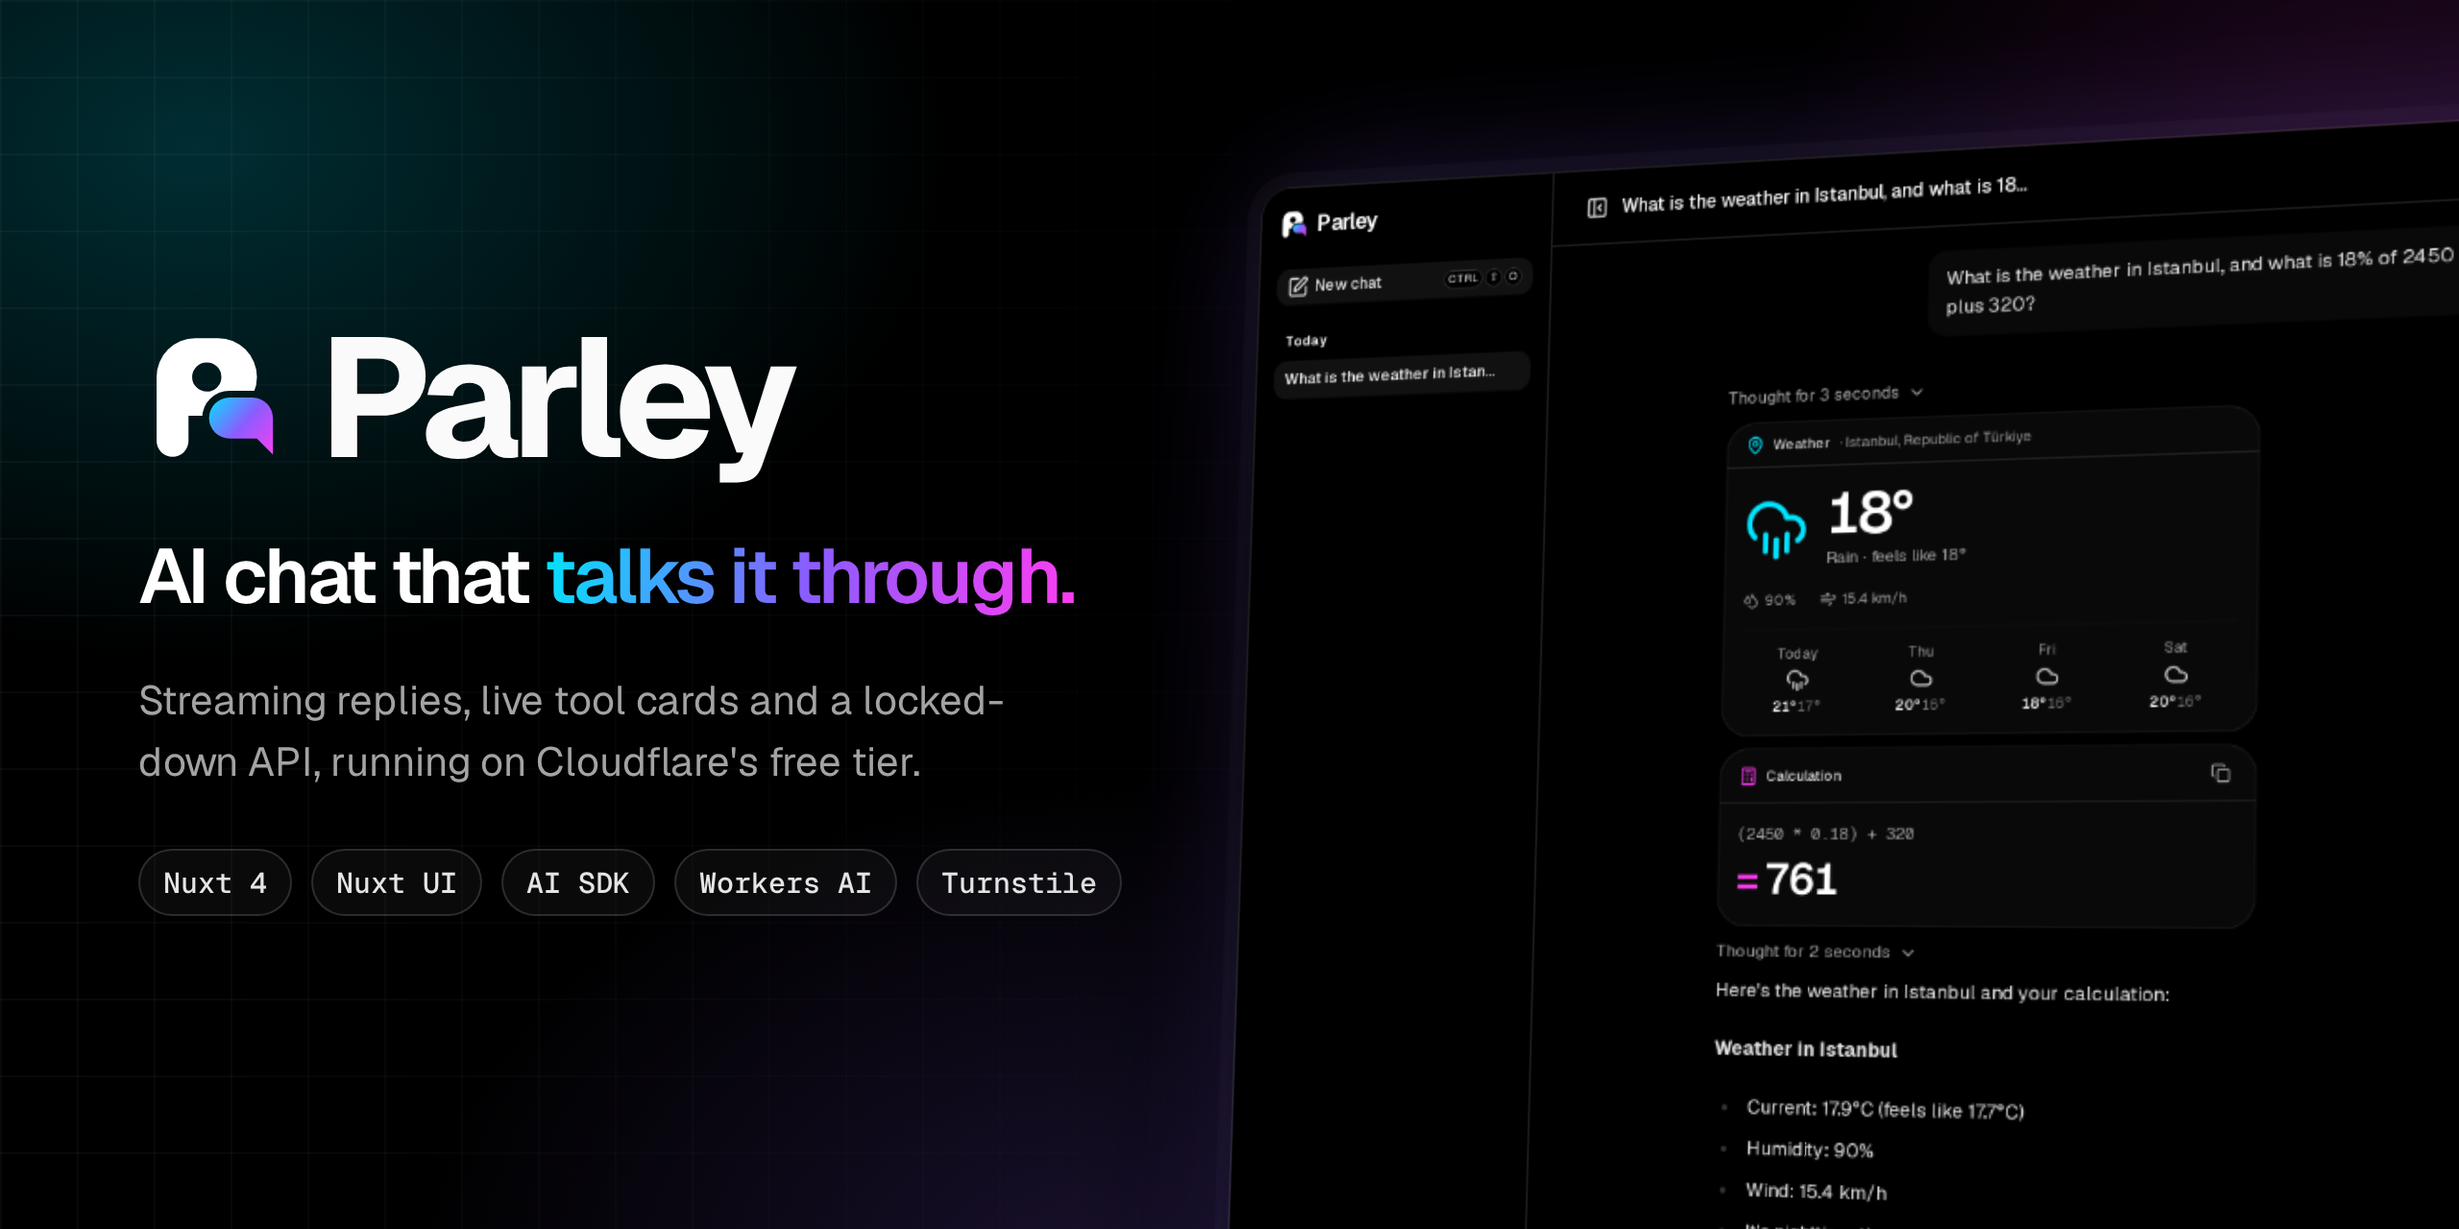
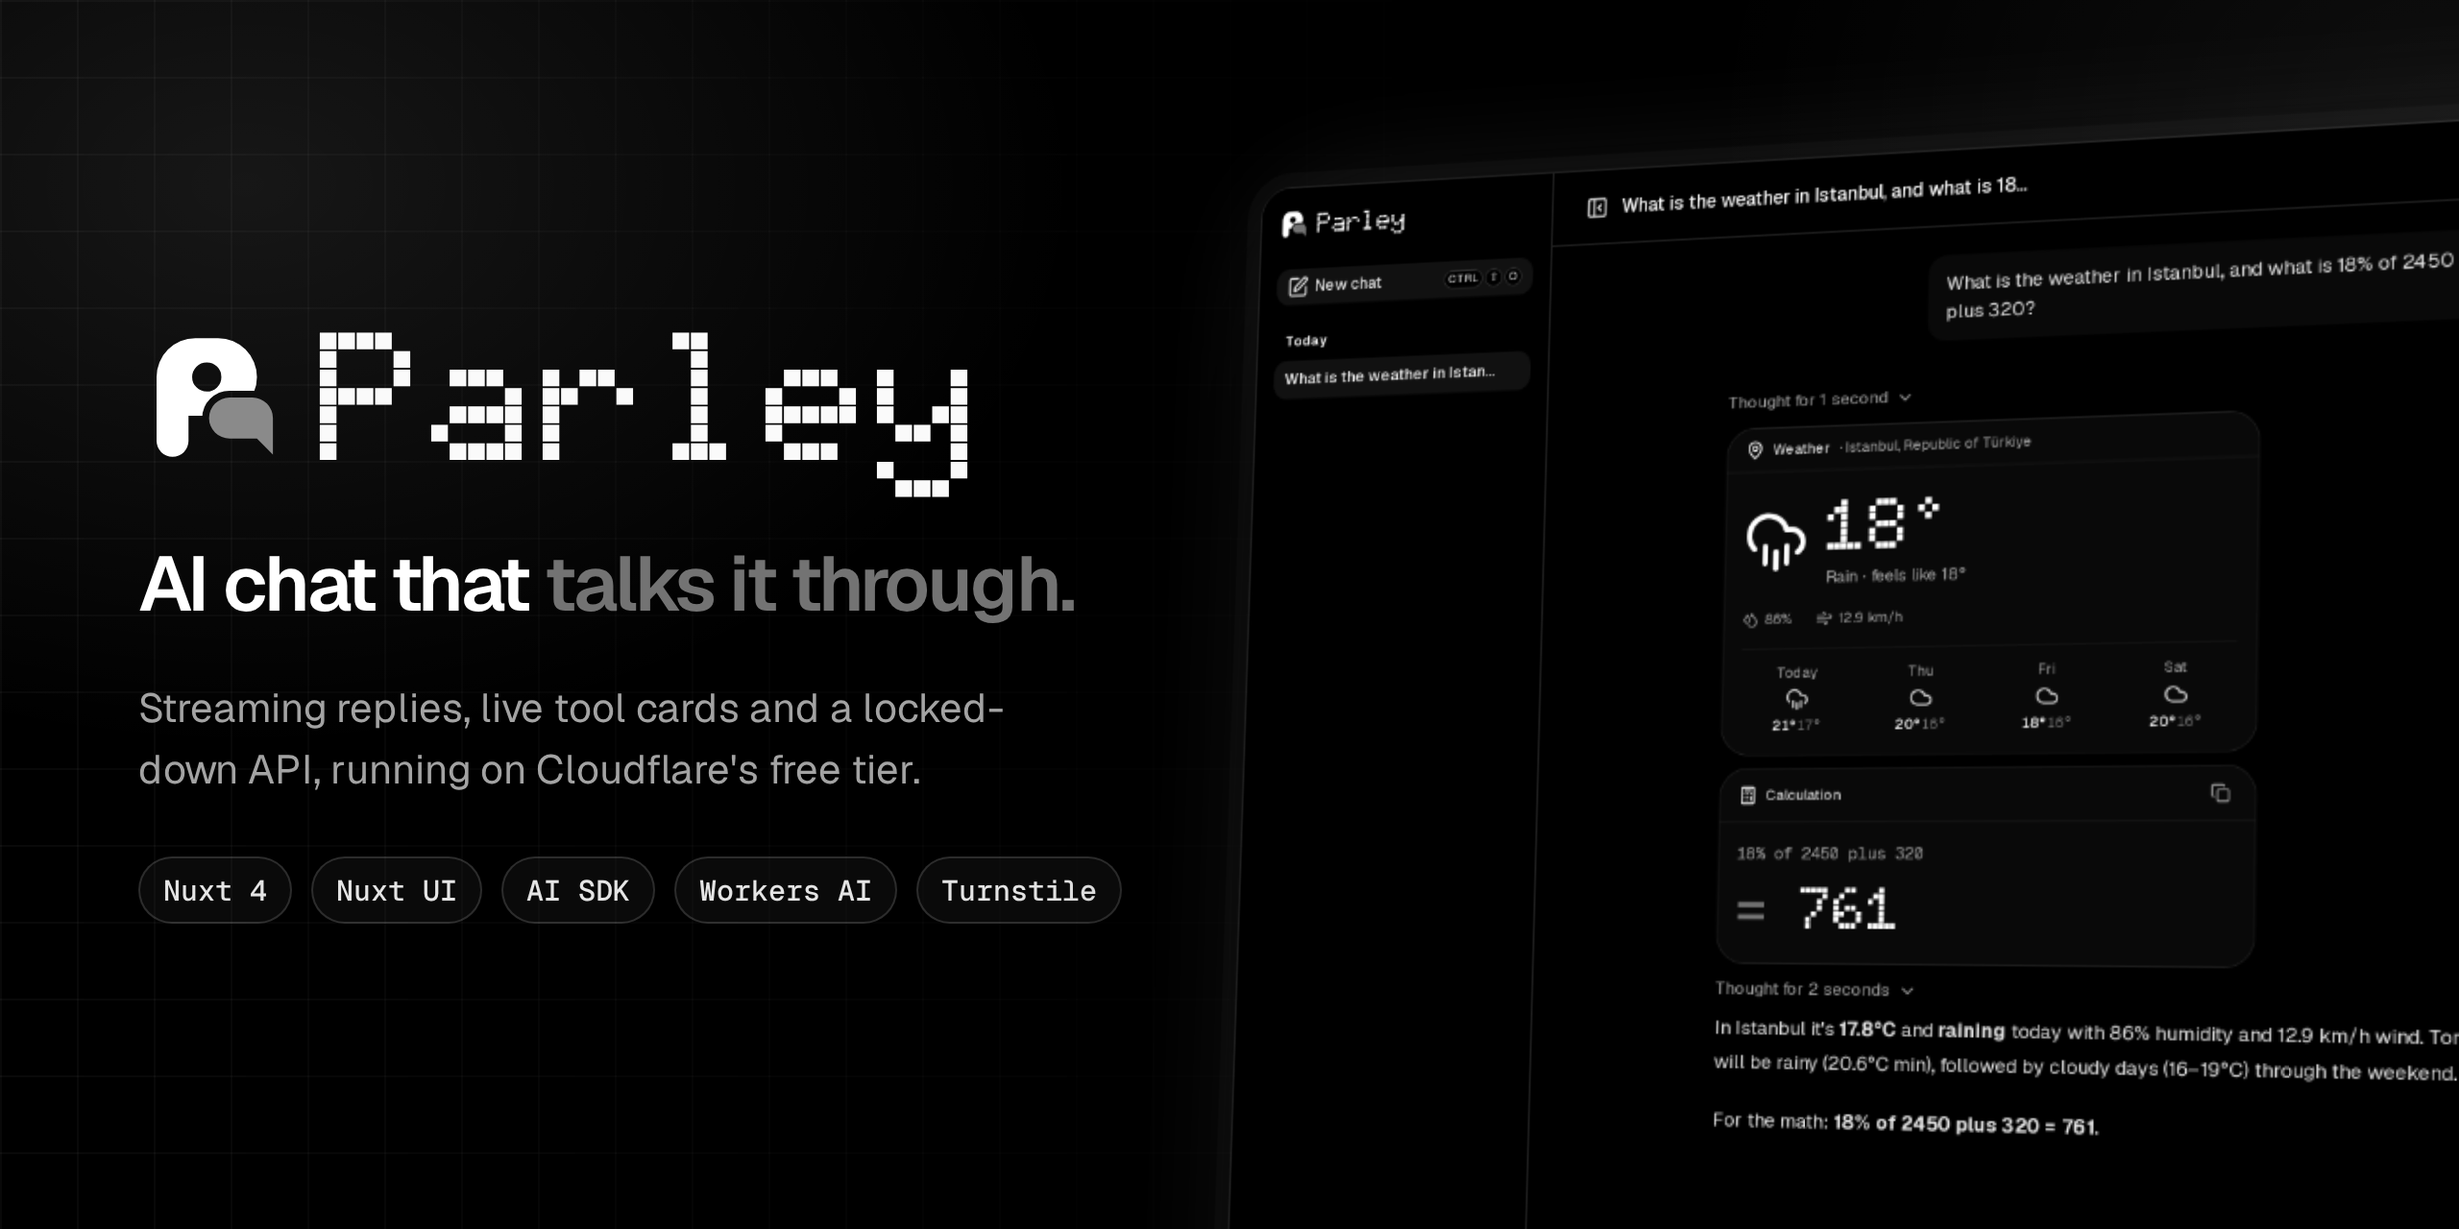
Go monochrome with a dot-matrix display face
Drops the gradient and per-tool colours: the interface is strictly black
and white, true black in dark mode. Doto, a dot-matrix face, sets the
wordmark, the hero and the big numbers on tool cards; Geist stays for
everything else. Logo, favicon, boot loader and README visuals updated.

The weather tool now returns a readable condition ("Rain", "Overcast")
from shared/utils/weather.ts, so replies no longer quote WMO codes, and
the calculator understands plus, minus, times and divided by.

diff --git a/app/pages/index.vue b/app/pages/index.vue
@@ -4,10 +4,10 @@ const { create } = useConversations()
 const input = ref('')
 
 const suggestions = [
-  { icon: 'i-lucide-cloud-sun', label: 'Weather in Istanbul this week?', accent: 'text-(--accent-cyan)' },
-  { icon: 'i-lucide-calculator', label: 'What is 18% of 2,450, plus 320?', accent: 'text-(--accent-magenta)' },
-  { icon: 'i-lucide-clock', label: 'What time is it in Tokyo right now?', accent: 'text-(--accent-lime)' },
-  { icon: 'i-lucide-code-xml', label: 'Write a Vue composable that debounces a ref', accent: 'text-(--accent-violet)' }
+  { icon: 'i-lucide-cloud-sun', label: 'Weather in Istanbul this week?' },
+  { icon: 'i-lucide-calculator', label: 'What is 18% of 2,450, plus 320?' },
+  { icon: 'i-lucide-clock', label: 'What time is it in Tokyo right now?' },
+  { icon: 'i-lucide-code-xml', label: 'Write a Vue composable that debounces a ref' }
 ]
 
 function start(text: string) {
@@ -37,8 +37,8 @@ function start(text: string) {
       <UContainer class="flex min-h-full max-w-3xl flex-col justify-center gap-8 py-10">
         <div class="flex flex-col items-center text-center">
           <ParleyLogo class="size-14" />
-          <h1 class="mt-5 text-4xl font-semibold tracking-tighter text-highlighted sm:text-5xl">
-            What shall we <span class="text-gradient">talk through</span>?
+          <h1 class="mt-6 font-display text-4xl font-black leading-tight text-highlighted sm:text-5xl">
+            What shall we <span class="text-dimmed">talk through</span>?
           </h1>
           <p class="mt-3 max-w-md text-muted">
             Streaming answers, code you can copy, and live tools for weather, maths and time.
@@ -61,7 +61,6 @@ function start(text: string) {
             variant="outline"
             size="sm"
             class="rounded-full"
-            :ui="{ leadingIcon: suggestion.accent }"
             @click="start(suggestion.label)"
           />
         </div>

diff --git a/app/assets/css/main.css b/app/assets/css/main.css
@@ -4,27 +4,20 @@
 @theme static {
   --font-sans: 'Geist', ui-sans-serif, system-ui, sans-serif;
   --font-mono: 'Geist Mono', ui-monospace, SFMono-Regular, monospace;
+  /* Dot-matrix display face, used only for short brand moments: the wordmark, the hero and big values. */
+  --font-display: 'Doto', 'Geist Mono', ui-monospace, monospace;
 }
 
-/*
- * Parley's look: a monochrome interface on true black (AMOLED) with a few vivid accents.
- * Buttons and focus rings are black/white; colour is saved for the brand gradient and the tool cards.
- */
+/* Parley's look: strictly monochrome, black and white on true black (AMOLED) in dark mode. */
 :root {
   --ui-primary: var(--ui-color-primary-900);
   --ui-radius: 0.5rem;
-
-  --accent-cyan: #0891b2;
-  --accent-violet: #7c3aed;
-  --accent-magenta: #c026d3;
-  --accent-lime: #4d7c0f;
-  --parley-gradient: linear-gradient(100deg, var(--accent-cyan), var(--accent-violet) 50%, var(--accent-magenta));
 }
 
 .dark {
   --ui-primary: var(--ui-color-primary-50);
 
-  /* True black surfaces: AMOLED pixels switch off and accents glow. */
+  /* True black surfaces: AMOLED pixels switch off. */
   --ui-bg: #000;
   --ui-bg-muted: #0a0a0a;
   --ui-bg-elevated: #111;
@@ -33,21 +26,10 @@
   --ui-border-muted: #181818;
   --ui-border-accented: #333;
 
-  --accent-cyan: #00e5ff;
-  --accent-violet: #8b5cff;
-  --accent-magenta: #ff3df2;
-  --accent-lime: #c6ff00;
 }
 
 ::selection {
-  background: color-mix(in oklab, var(--accent-magenta) 35%, transparent);
-}
-
-.text-gradient {
-  background: var(--parley-gradient);
-  -webkit-background-clip: text;
-  background-clip: text;
-  color: transparent;
+  background: color-mix(in oklab, var(--ui-text-highlighted) 20%, transparent);
 }
 
 /* rangi emits --shiki-dark* vars for the dark half of the code theme */

diff --git a/app/spa-loading-template.html b/app/spa-loading-template.html
@@ -1,11 +1,6 @@
 <div id="parley-boot" role="status" aria-label="Loading Parley">
   <svg viewBox="0 0 32 32" width="56" height="56" aria-hidden="true">
     <defs>
-      <linearGradient id="parley-boot-grad" x1="15" y1="16" x2="30" y2="29" gradientUnits="userSpaceOnUse">
-        <stop offset="0" stop-color="#00e5ff" />
-        <stop offset=".5" stop-color="#8b5cff" />
-        <stop offset="1" stop-color="#ff3df2" />
-      </linearGradient>
       <mask id="parley-boot-gap">
         <rect width="32" height="32" fill="#fff" />
         <path d="M20 16H25a4.5 4.5 0 0 1 4.5 4.5V28.5L26 25H20a4.5 4.5 0 0 1-4.5-4.5 4.5 4.5 0 0 1 4.5-4.5Z" fill="#000" stroke="#000" stroke-width="3" stroke-linejoin="round" />
@@ -14,7 +9,7 @@
     <g mask="url(#parley-boot-gap)">
       <path class="a" fill-rule="evenodd" d="M4 11.5A8.5 8.5 0 0 1 12.5 3h5A8.5 8.5 0 0 1 26 11.5 8.5 8.5 0 0 1 17.5 20H11v5.5a3.5 3.5 0 0 1-7 0ZM15 8.3a3.2 3.2 0 1 0 0 6.4 3.2 3.2 0 1 0 0-6.4Z" />
     </g>
-    <path class="b" fill="url(#parley-boot-grad)" d="M20 16H25a4.5 4.5 0 0 1 4.5 4.5V28.5L26 25H20a4.5 4.5 0 0 1-4.5-4.5 4.5 4.5 0 0 1 4.5-4.5Z" />
+    <path class="b" fill="#8a8a8a" d="M20 16H25a4.5 4.5 0 0 1 4.5 4.5V28.5L26 25H20a4.5 4.5 0 0 1-4.5-4.5 4.5 4.5 0 0 1 4.5-4.5Z" />
   </svg>
   <span>Parley</span>
 </div>
@@ -30,8 +25,7 @@
     gap: 14px;
     background: #fff;
     color: #0a0a0a;
-    font: 600 22px/1 'Geist', ui-sans-serif, system-ui, sans-serif;
-    letter-spacing: -0.02em;
+    font: 900 26px/1 'Doto', 'Geist', ui-monospace, monospace;
   }
   #parley-boot .a { fill: #0a0a0a; }
   @media (prefers-color-scheme: dark) {

diff --git a/server/utils/tools.ts b/server/utils/tools.ts
@@ -50,11 +50,13 @@ async function getWeather(city: string): Promise<WeatherResult | ToolErrorResult
       humidity: forecast.current.relative_humidity_2m,
       windSpeed: round(forecast.current.wind_speed_10m),
       code: forecast.current.weather_code,
+      condition: describeWeather(forecast.current.weather_code, forecast.current.is_day === 1).label,
       isDay: forecast.current.is_day === 1
     },
     days: forecast.daily.time.map((date, i) => ({
       date,
       code: forecast.daily.weather_code[i]!,
+      condition: describeWeather(forecast.daily.weather_code[i]!).label,
       max: round(forecast.daily.temperature_2m_max[i]!),
       min: round(forecast.daily.temperature_2m_min[i]!)
     })),
@@ -105,7 +107,7 @@ export const chatTools = {
     execute: ({ city }) => getWeather(city)
   }),
   calculate: tool({
-    description: 'Evaluate a math expression exactly. Use it for any arithmetic instead of computing in your head. Supports + - * / % ^, "18% of 2450", thousands separators, parentheses, pi, e, sqrt, cbrt, abs, round, floor, ceil, sin, cos, tan, asin, acos, atan, ln, log (base 10), exp.',
+    description: 'Evaluate a math expression exactly. Use it for any arithmetic instead of computing in your head. Supports + - * / % ^, "18% of 2450", thousands separators, words like plus/minus/times, parentheses, pi, e, sqrt, cbrt, abs, round, floor, ceil, sin, cos, tan, asin, acos, atan, ln, log (base 10), exp.',
     inputSchema: z.object({
       expression: z.string().min(1).max(200).describe('The expression, e.g. "(1250 * 0.18) + 42" or "sqrt(2) ^ 10"')
     }),

diff --git a/app/components/ParleyLogo.vue b/app/components/ParleyLogo.vue
@@ -1,7 +1,7 @@
 <script setup lang="ts">
 /**
- * Parley mark: a speech bubble whose tail is the stem of a "P" (monochrome), answered by a second
- * bubble in the brand gradient. `talking` animates the two bubbles taking turns (used by the loaders).
+ * Parley mark: a speech bubble whose tail is the stem of a "P", answered by a second, quieter bubble.
+ * `talking` animates the two bubbles taking turns (used by the loaders).
  */
 withDefaults(defineProps<{ talking?: boolean }>(), { talking: false })
 
@@ -30,27 +30,6 @@ const reply = 'M20 16H25a4.5 4.5 0 0 1 4.5 4.5V28.5L26 25H20a4.5 4.5 0 0 1-4.5-4
           stroke-linejoin="round"
         />
       </mask>
-      <linearGradient
-        :id="`${id}-grad`"
-        x1="15"
-        y1="16"
-        x2="30"
-        y2="29"
-        gradientUnits="userSpaceOnUse"
-      >
-        <stop
-          offset="0"
-          style="stop-color: var(--accent-cyan)"
-        />
-        <stop
-          offset=".5"
-          style="stop-color: var(--accent-violet)"
-        />
-        <stop
-          offset="1"
-          style="stop-color: var(--accent-magenta)"
-        />
-      </linearGradient>
     </defs>
     <g :mask="`url(#${id}-gap)`">
       <path
@@ -62,7 +41,7 @@ const reply = 'M20 16H25a4.5 4.5 0 0 1 4.5 4.5V28.5L26 25H20a4.5 4.5 0 0 1-4.5-4
     </g>
     <path
       :class="{ 'parley-talk-b': talking }"
-      :fill="`url(#${id}-grad)`"
+      class="fill-(--ui-text-dimmed)"
       :d="reply"
     />
   </svg>

diff --git a/app/components/tools/ToolCard.vue b/app/components/tools/ToolCard.vue
@@ -1,20 +1,17 @@
 <script setup lang="ts">
-export type ToolAccent = 'cyan' | 'magenta' | 'lime' | 'violet'
-
-defineProps<{ icon: string, title: string, subtitle?: string, accent: ToolAccent }>()
+defineProps<{ icon: string, title: string, subtitle?: string }>()
 </script>
 
 <template>
   <UCard
     variant="subtle"
-    class="tool-card my-3 w-full max-w-md rounded-xl"
-    :style="{ '--tool-accent': `var(--accent-${accent})` }"
+    class="my-3 w-full max-w-md rounded-xl"
     :ui="{ header: 'flex items-center gap-2 px-4 py-2.5 sm:px-4 text-xs text-muted', body: 'p-4 sm:p-4' }"
   >
     <template #header>
       <UIcon
         :name="icon"
-        class="size-4 text-(--tool-accent)"
+        class="size-4 text-highlighted"
       />
       <span class="font-medium text-toned">{{ title }}</span>
       <span
@@ -29,12 +26,3 @@ defineProps<{ icon: string, title: string, subtitle?: string, accent: ToolAccent
     <slot />
   </UCard>
 </template>
-
-<style scoped>
-/* On true black the card picks up a soft glow in its tool's colour. */
-:global(.dark) .tool-card {
-  box-shadow:
-    0 0 0 1px color-mix(in oklab, var(--tool-accent) 22%, transparent),
-    0 12px 48px -16px color-mix(in oklab, var(--tool-accent) 40%, transparent);
-}
-</style>

diff --git a/app/utils/weather.ts b/app/utils/weather.ts
@@ -1,17 +1,3 @@
-/** WMO weather interpretation codes, as returned by Open-Meteo. */
-export function describeWeather(code: number, isDay = true): { label: string, icon: string } {
-  if (code === 0) return { label: 'Clear sky', icon: isDay ? 'i-lucide-sun' : 'i-lucide-moon' }
-  if (code <= 2) return { label: code === 1 ? 'Mostly clear' : 'Partly cloudy', icon: isDay ? 'i-lucide-cloud-sun' : 'i-lucide-cloud-moon' }
-  if (code === 3) return { label: 'Overcast', icon: 'i-lucide-cloud' }
-  if (code <= 48) return { label: 'Fog', icon: 'i-lucide-cloud-fog' }
-  if (code <= 57) return { label: 'Drizzle', icon: 'i-lucide-cloud-drizzle' }
-  if (code <= 67) return { label: 'Rain', icon: 'i-lucide-cloud-rain' }
-  if (code <= 77) return { label: 'Snow', icon: 'i-lucide-cloud-snow' }
-  if (code <= 82) return { label: 'Rain showers', icon: 'i-lucide-cloud-rain-wind' }
-  if (code <= 86) return { label: 'Snow showers', icon: 'i-lucide-cloud-snow' }
-  return { label: 'Thunderstorm', icon: 'i-lucide-cloud-lightning' }
-}
-
 export function weekday(date: string) {
   return new Intl.DateTimeFormat('en-US', { weekday: 'short' }).format(new Date(`${date}T12:00:00`))
 }

diff --git a/shared/utils/weather.ts b/shared/utils/weather.ts
@@ -1,0 +1,13 @@
+/** WMO weather interpretation codes (Open-Meteo), shared so the tool output and the card use the same words. */
+export function describeWeather(code: number, isDay = true): { label: string, icon: string } {
+  if (code === 0) return { label: 'Clear sky', icon: isDay ? 'i-lucide-sun' : 'i-lucide-moon' }
+  if (code <= 2) return { label: code === 1 ? 'Mostly clear' : 'Partly cloudy', icon: isDay ? 'i-lucide-cloud-sun' : 'i-lucide-cloud-moon' }
+  if (code === 3) return { label: 'Overcast', icon: 'i-lucide-cloud' }
+  if (code <= 48) return { label: 'Fog', icon: 'i-lucide-cloud-fog' }
+  if (code <= 57) return { label: 'Drizzle', icon: 'i-lucide-cloud-drizzle' }
+  if (code <= 67) return { label: 'Rain', icon: 'i-lucide-cloud-rain' }
+  if (code <= 77) return { label: 'Snow', icon: 'i-lucide-cloud-snow' }
+  if (code <= 82) return { label: 'Rain showers', icon: 'i-lucide-cloud-rain-wind' }
+  if (code <= 86) return { label: 'Snow showers', icon: 'i-lucide-cloud-snow' }
+  return { label: 'Thunderstorm', icon: 'i-lucide-cloud-lightning' }
+}

diff --git a/server/utils/calculator.ts b/server/utils/calculator.ts
@@ -1,7 +1,7 @@
 /**
  * A tiny, safe arithmetic evaluator for the calculate tool (no eval).
  * Supports + - * / % ^, parentheses, unary minus, constants (pi, e), common functions,
- * "18% of 2450" and thousands separators like "2,450".
+ * "18% of 2450", thousands separators like "2,450" and the words plus, minus, times, divided by.
  */
 const FUNCTIONS: Record<string, (x: number) => number> = {
   sqrt: Math.sqrt,
@@ -31,6 +31,10 @@ export function evaluateExpression(input: string): number {
     .replace(/\*\*/g, '^')
     .replace(/(\d),(?=\d{3}(?!\d))/g, '$1') // 2,450 -> 2450
     .replace(/(\d+(?:\.\d+)?)\s*%\s*of\s*/g, '($1/100)*') // 18% of x -> (18/100)*x
+    .replace(/\bplus\b/g, '+')
+    .replace(/\bminus\b/g, '-')
+    .replace(/\b(?:times|multiplied by)\b/g, '*')
+    .replace(/\b(?:divided by|over)\b/g, '/')
   let pos = 0
 
   const peek = () => source[pos]

diff --git a/nuxt.config.ts b/nuxt.config.ts
@@ -69,14 +69,15 @@ export default defineNuxtConfig({
   fonts: {
     families: [
       { name: 'Geist', provider: 'google', weights: [400, 500, 600, 700] },
-      { name: 'Geist Mono', provider: 'google', weights: [400, 500] }
+      { name: 'Geist Mono', provider: 'google', weights: [400, 500] },
+      { name: 'Doto', provider: 'google', weights: [800, 900] }
     ]
   },
 
   icon: {
     // Bundle every icon the app uses; never fetch icons from the Iconify API at runtime (CSP + privacy).
-    // Scan .ts too: weather icons are picked at runtime in app/utils/weather.ts.
-    clientBundle: { scan: { globInclude: ['app/**/*.{vue,ts}'] } },
+    // Scan .ts too: weather icons are picked at runtime in shared/utils/weather.ts.
+    clientBundle: { scan: { globInclude: ['app/**/*.{vue,ts}', 'shared/**/*.ts'] } },
     fallbackToApi: false
   }
 })

diff --git a/app/components/tools/WeatherCard.vue b/app/components/tools/WeatherCard.vue
@@ -9,16 +9,15 @@ const unit = computed(() => props.data.units.temperature.replace('°C', '°').re
   <ToolsToolCard
     icon="i-lucide-map-pin"
     title="Weather"
-    accent="cyan"
     :subtitle="[data.location, data.country].filter(Boolean).join(', ')"
   >
     <div class="flex items-center gap-4">
       <UIcon
         :name="now.icon"
-        class="size-14 shrink-0 text-(--accent-cyan)"
+        class="size-14 shrink-0 text-highlighted"
       />
       <div class="min-w-0">
-        <p class="text-5xl font-semibold leading-none tracking-tighter text-highlighted tabular-nums">
+        <p class="font-display text-6xl font-black leading-none text-highlighted tabular-nums">
           {{ Math.round(data.current.temperature) }}{{ unit }}
         </p>
         <p class="mt-1 text-sm text-muted">

diff --git a/app/components/tools/CalculatorCard.vue b/app/components/tools/CalculatorCard.vue
@@ -10,7 +10,6 @@ const { copy, copied } = useClipboard()
   <ToolsToolCard
     icon="i-lucide-calculator"
     title="Calculation"
-    accent="magenta"
   >
     <template #actions>
       <UButton
@@ -26,8 +25,8 @@ const { copy, copied } = useClipboard()
     <p class="break-all font-mono text-sm text-muted">
       {{ data.expression }}
     </p>
-    <p class="mt-1 break-all text-4xl font-semibold leading-tight tracking-tighter text-highlighted tabular-nums">
-      <span class="text-(--accent-magenta)">=</span> {{ data.formatted }}
+    <p class="mt-1 break-all font-display text-5xl font-black leading-tight text-highlighted tabular-nums">
+      <span class="font-sans font-medium text-dimmed">=</span> {{ data.formatted }}
     </p>
   </ToolsToolCard>
 </template>
